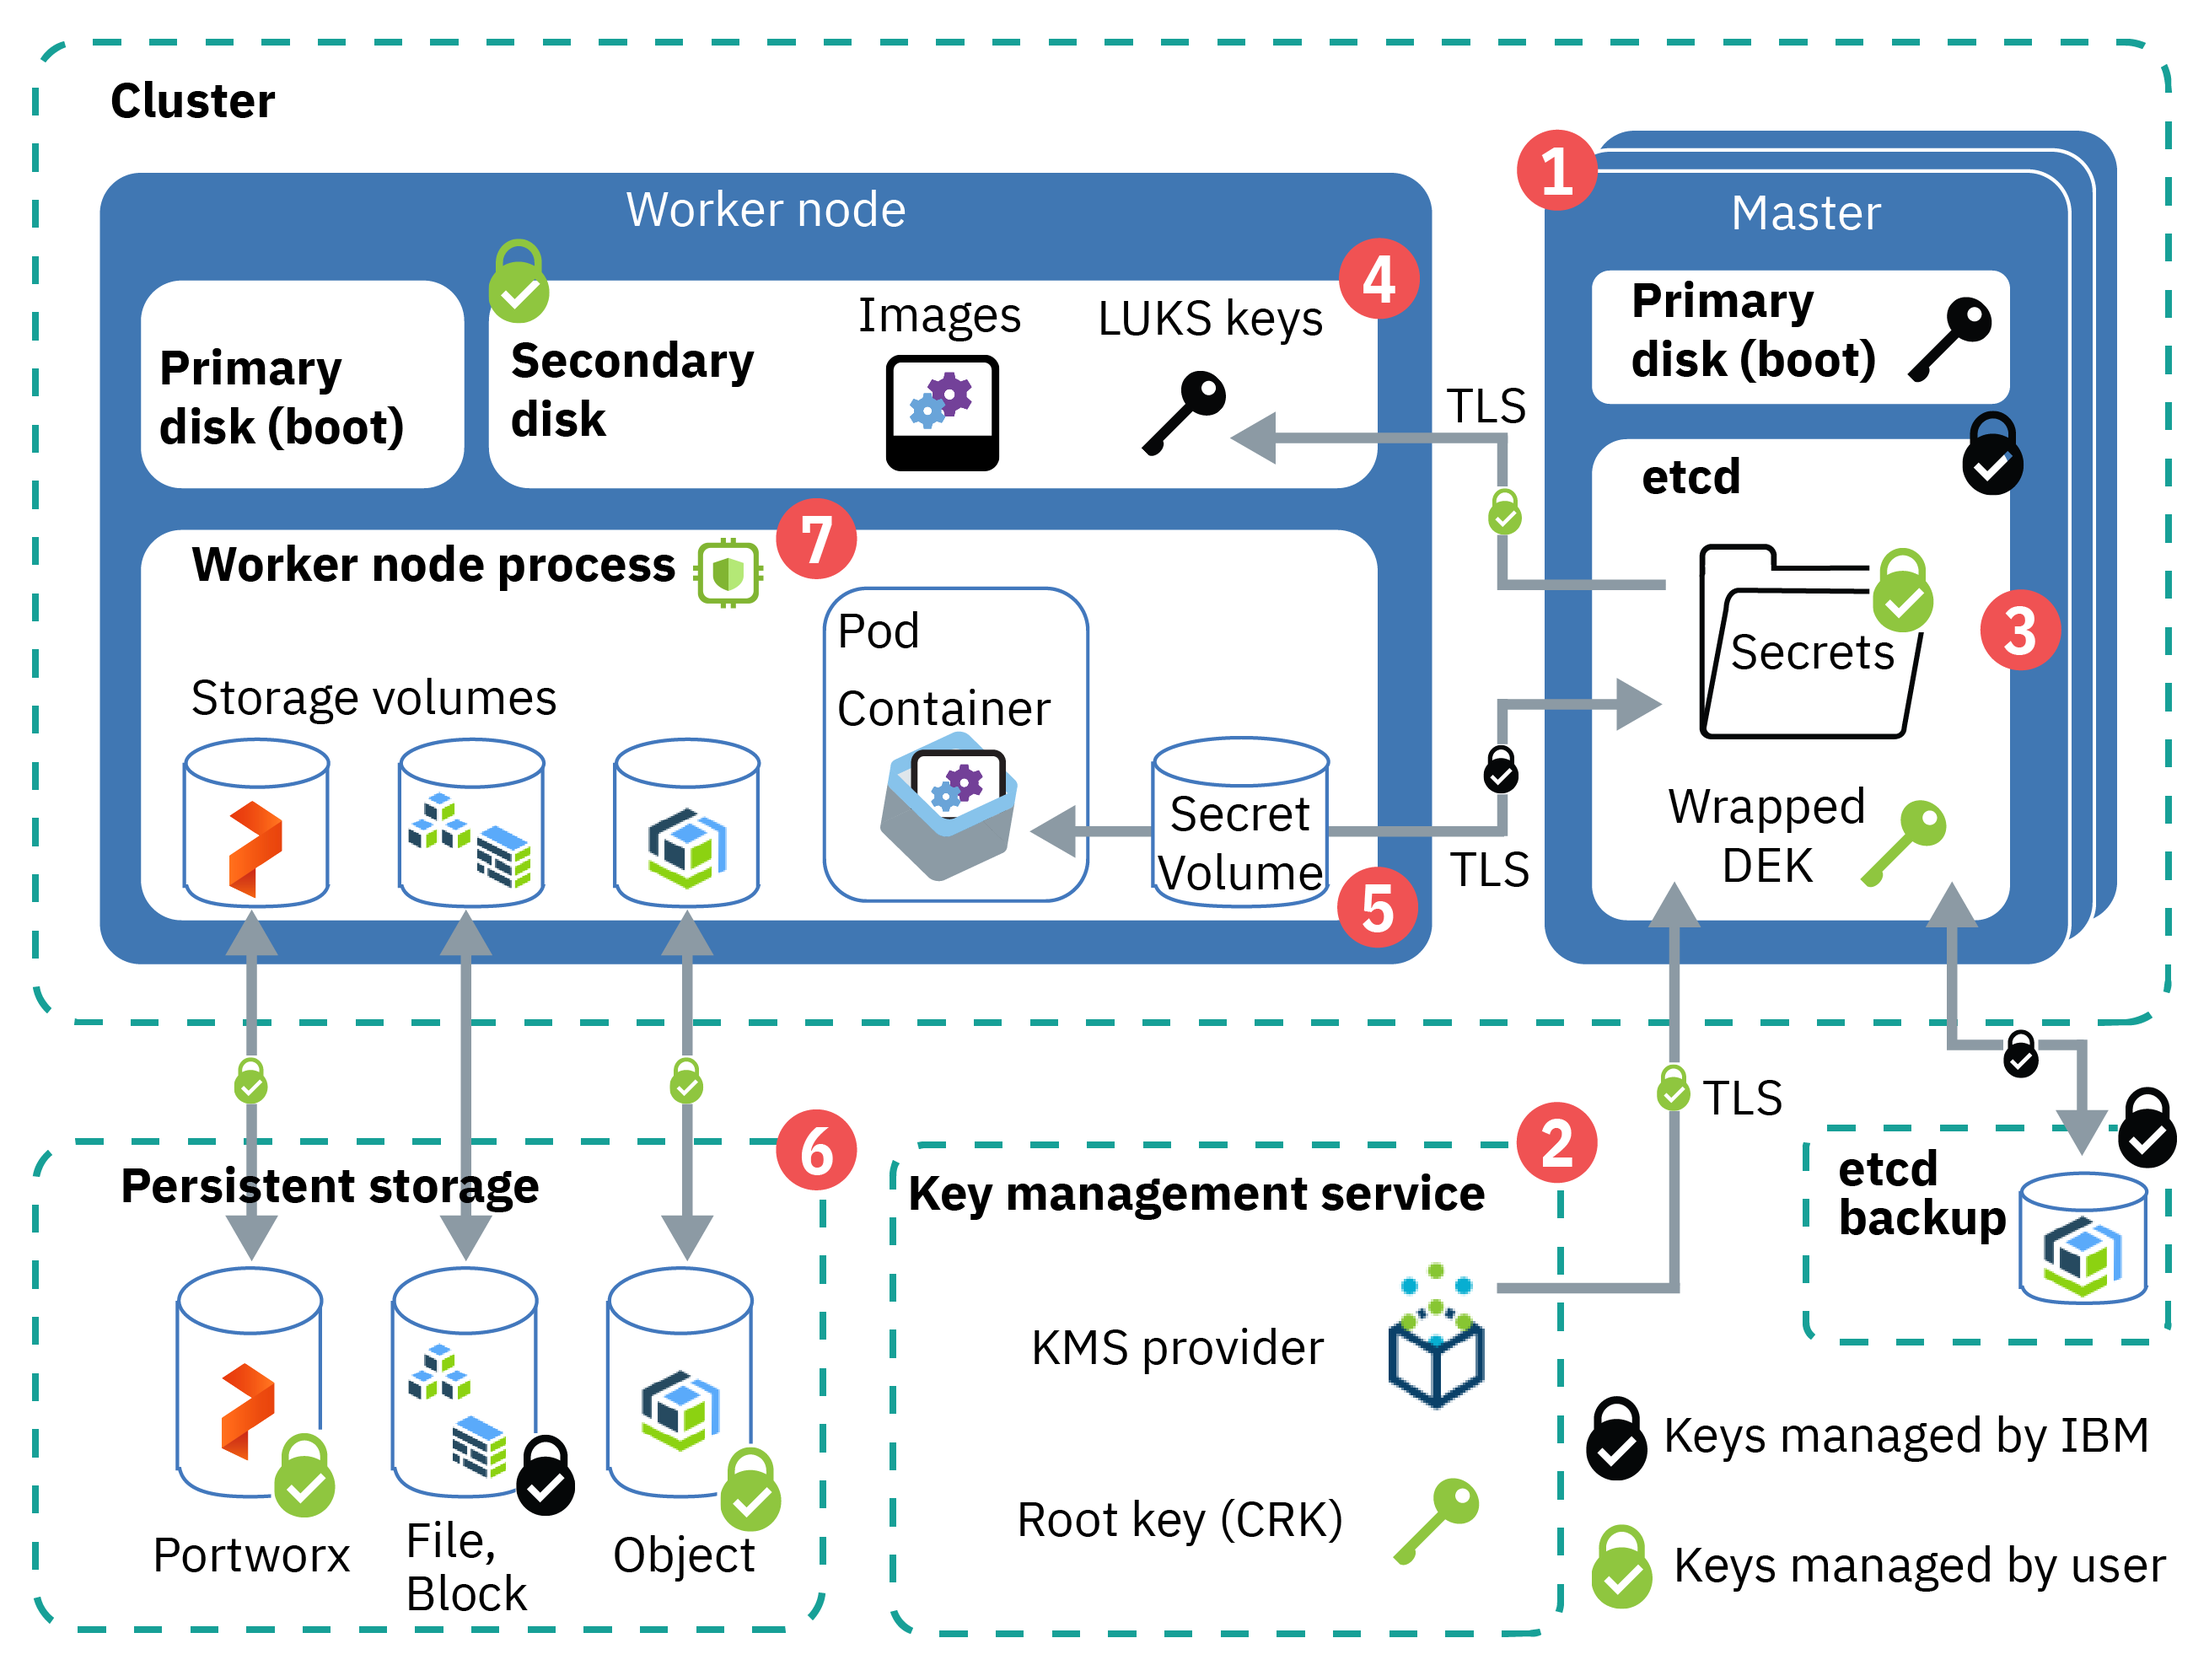
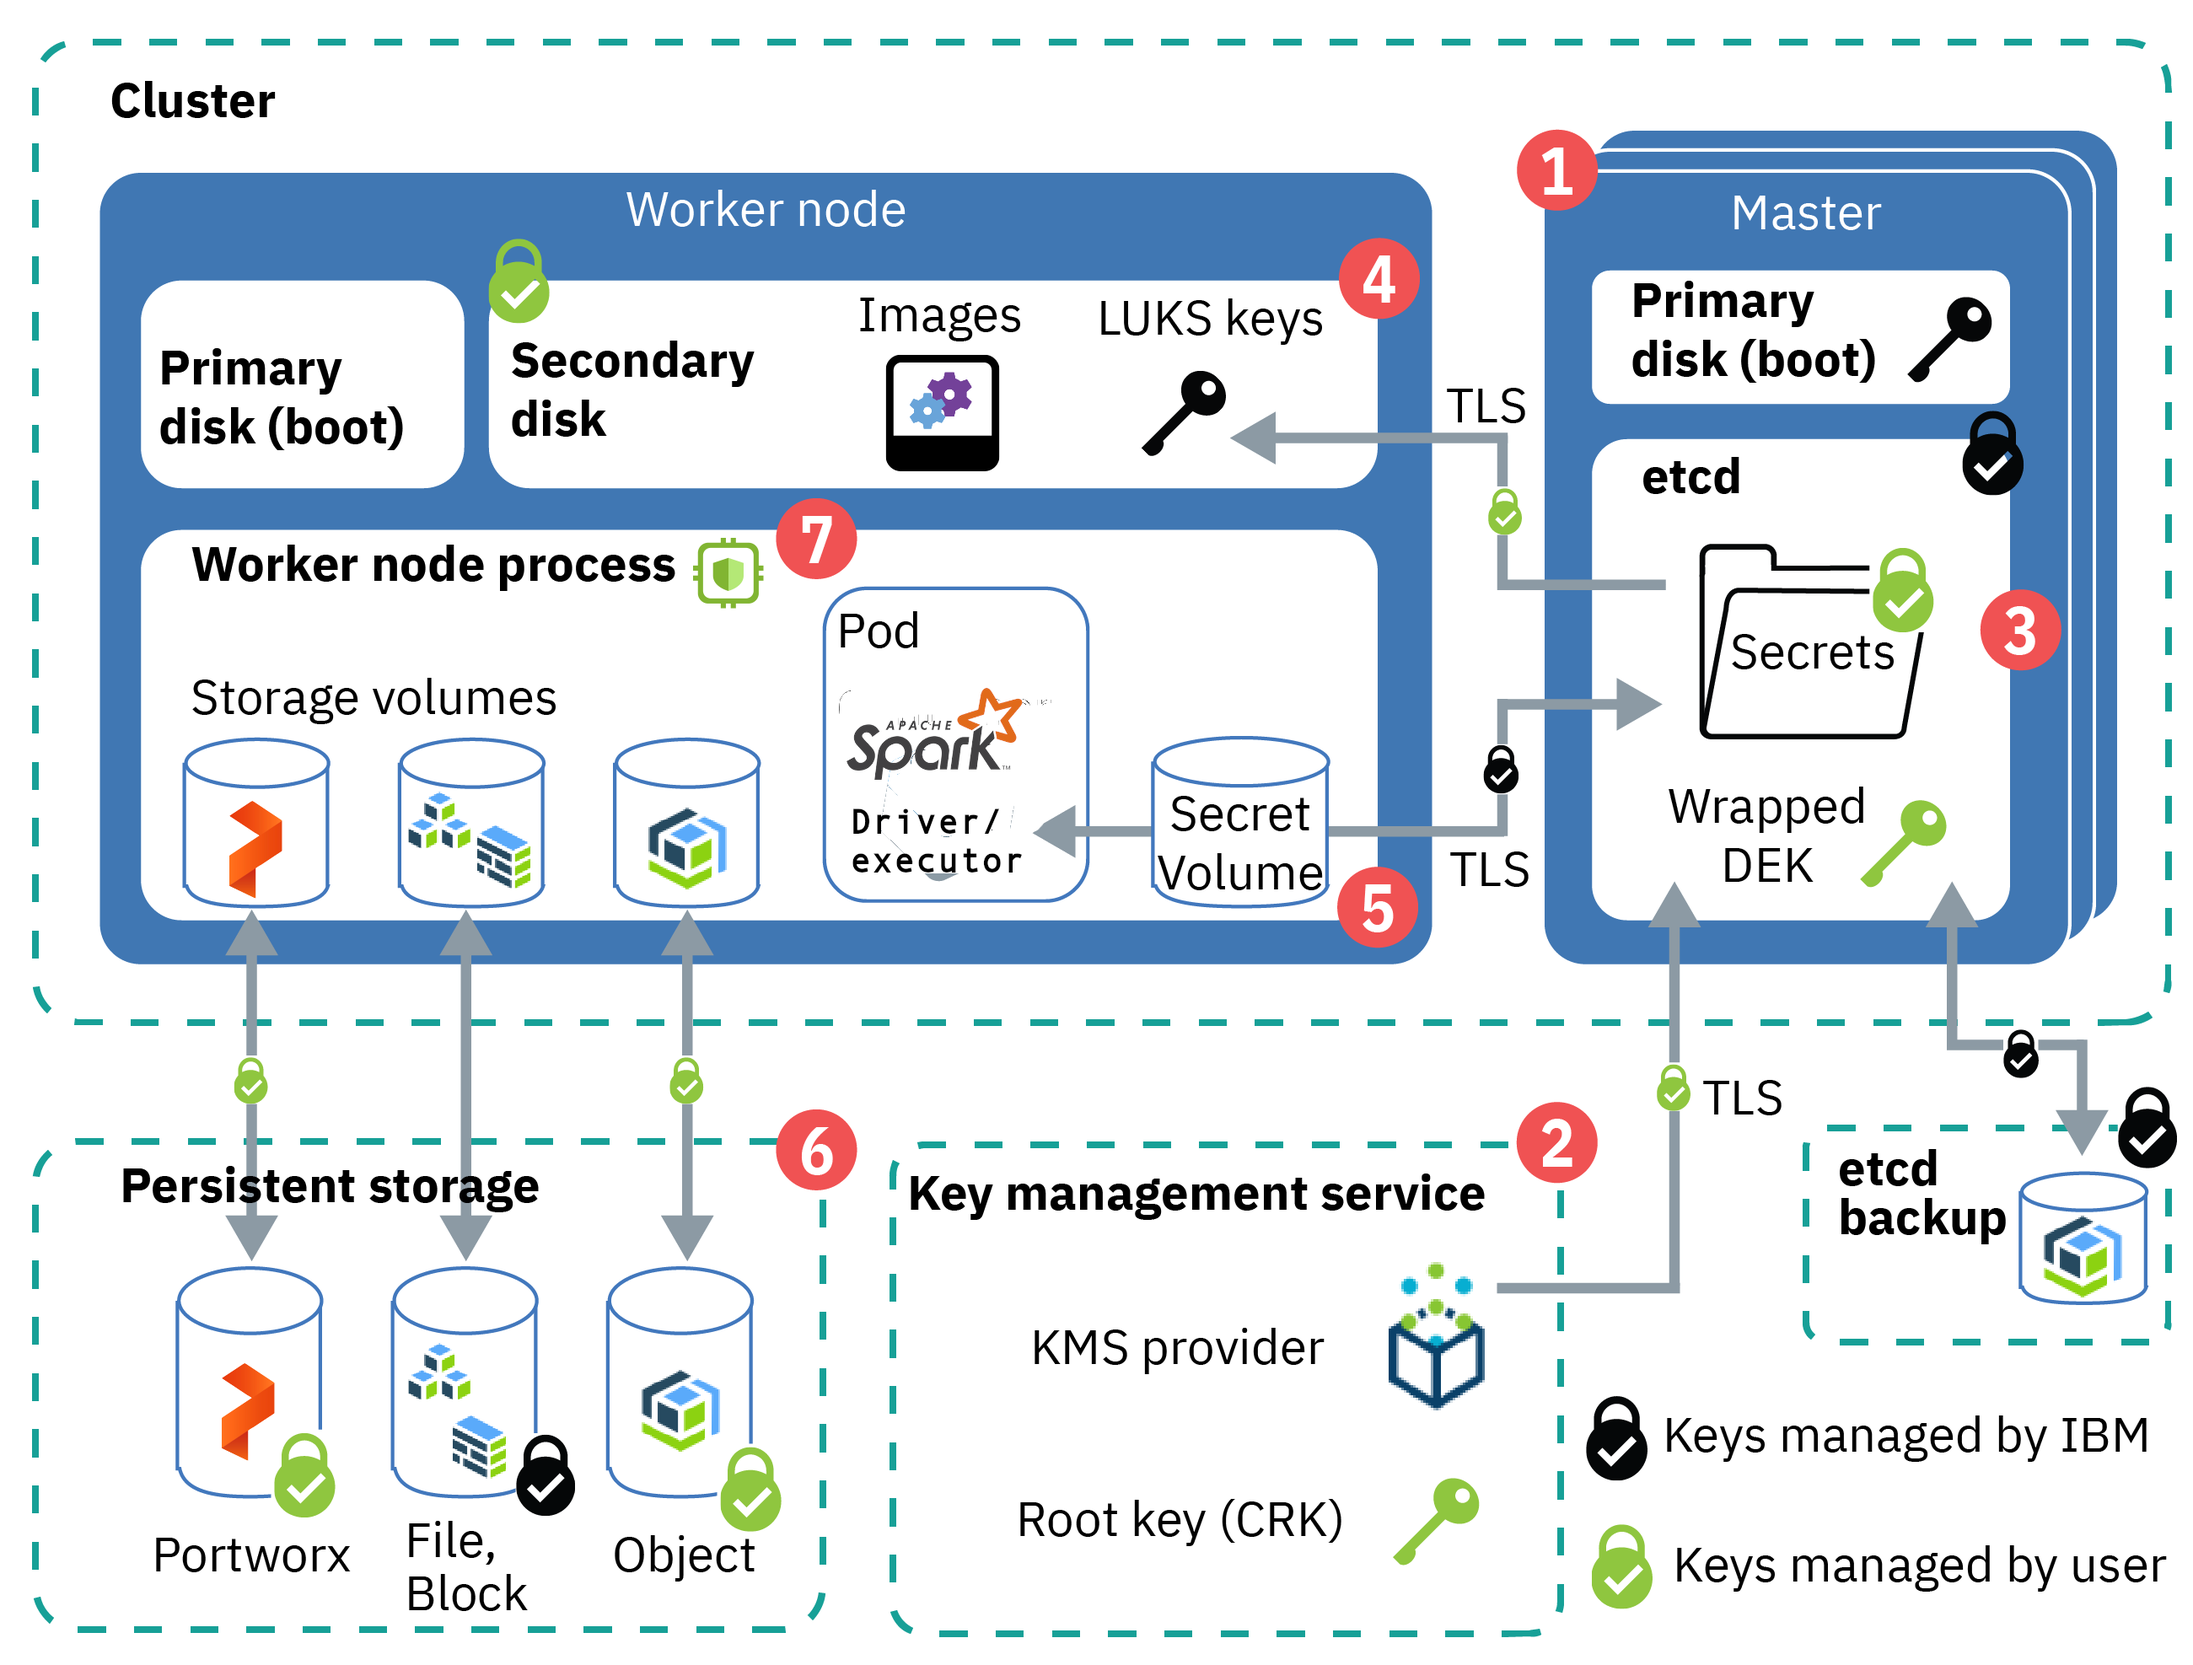
Updated post review.

Changed region(s): [[0.3737, 0.4015, 0.4671, 0.5251]]

diff --git a/README.md b/README.md
@@ -10,6 +10,16 @@ processing all the data related to cryptography, many such tampering and cryptan
 So this helps makes, Cloud HSM very secure for enterprise usage. It also helps take off load from CPU, for processing
 ciphering and deciphering of data and thus makes cryptography considerably faster. 
 
+What is IBM Key Protect and IBM Hyper protect in essence?
+
+IBM Cloud has these two unique offerings, tailored to different needs of the users.  
+ a) IBM Key Protect, which is pay as you go service
+and charges per API call to the KMS service. It uses a Cloud HSM instance to securely manage the Key.
+ b) IBM Hyper Protect, lets you provision a dedicated instance of a Cloud HSM server machine on the cloud.
+ 
+ Either you choose IBM Key Protect or IBM Hyper Protect, both provide a Key Management service (or KMS)
+   which can integrate well with rest of the IBM Cloud services (e.g. Openshift, Cloud Object Store etc..)
+
 There is another benefit of dedicated hardware for cryptography, i.e. they generate and store the keys on the device
  and keep them very safe. So, keys are not stored in the regular persistent storage like a system Hard drive 
 or a NAS or SAN. In fact, keys are generated and stored on the dedicated crypto device, and the device have the ability to
@@ -17,25 +27,29 @@ or a NAS or SAN. In fact, keys are generated and stored on the dedicated crypto 
  data that was accessible using these keys become inaccessible to anyone once the keys are erased.
 
 So, given the value of storing a key very securely and reliably. Now can we access the big data processing system with
- a single key, i.e. all the data encryption and authentication is achieved by a single or a group of keys. All of which
+ a single key, i.e. all the data encryption and authentication can either be done by a single or a group of keys. All of which
  is handled by a Cloud HSM instance. In this post, we will consider some salient features of `Keep your own key`, for large
 scale data processing engine like Apache Spark.
 
-# Securely access your data in Spark with IBM Key Protect and openshift 3.11
-![Overview of data encryption in a cluster](images/cs_encrypt_ov_kms.png "IBM KYOK,  Overview of data encryption in a cluster")
+# Securely access your data in Spark with IBM Key Protect and openshift 3.11 or Openshift 4.4.
+![Overview of data encryption in a openshift cluster](images/cs_encrypt_ov_kms.png "IBM KYOK,  Overview of data encryption in a openshift cluster")
 
-figure: Borrowed from IBM Cloud docs, [link](https://cloud.ibm.com/docs/openshift?topic=openshift-encryption#encrypt_ov)
+figure: Edited from IBM Cloud docs, [link](https://cloud.ibm.com/docs/openshift?topic=openshift-encryption#encrypt_ov)
 
 This diagram, shows an overview of data encryption in a Redhat openshift cluster, using a user provided root key, managed
- by a Key management service (KMS) instance. Both data at rest and data in use can be encrypted, with the user provided keys (i.e. KYOK). For encrypting data in use,
+ by a Key management service (KMS) instance. 
+ 
+ Both data at rest and data in use can be encrypted, with the user provided keys (i.e. KYOK). For encrypting data in use,
  please take a look at [IBM Cloud datashield](https://cloud.ibm.com/docs/openshift?topic=openshift-encryption#datashield)
+
+_Please note that, IBM Key protect currently only works with Openshift 4.4 and 3.11 versions._
 
 ### Prerequisites
 
 In order to proceed with the steps in this code pattern, you should have, KMS instance running such as, 
 [IBM Key protect](https://cloud.ibm.com/docs/key-protect?topic=key-protect-provision#provision) or 
-[IBM Hyper protect](https://cloud.ibm.com/catalog/services/hyper-protect-crypto-services) and an Openshift 3.11 
-(Openshift 4.x is not supported by KYOK currently.) cluster already up and running on IBM cloud 
+[IBM Hyper protect](https://cloud.ibm.com/catalog/services/hyper-protect-crypto-services) and an Openshift 4.4 or 3.11
+(Openshift 4.3 is not supported by KYOK.) cluster already up and running on IBM cloud 
 [Redhat Openshift](https://cloud.ibm.com/kubernetes/catalog/about?platformType=openshift).
 
 
@@ -120,8 +134,7 @@ We would, need a spark image to deploy the spark job via spark's k8s interface, 
 
 Here, `my-repo` is a docker public repository and you can also setup your own private or public repo using openshift.
  Details of which are out of scope for this blog. Please do check the openshift documentation 
- [link](https://docs.openshift.com/container-platform/3.11/install_config/registry/accessing_registry.html), for more
-  details.
+ [link](https://docs.openshift.com/), for more details.
         
         $> bin/docker-image-tool.sh -r my-repo -t v3.0.0 push
 
